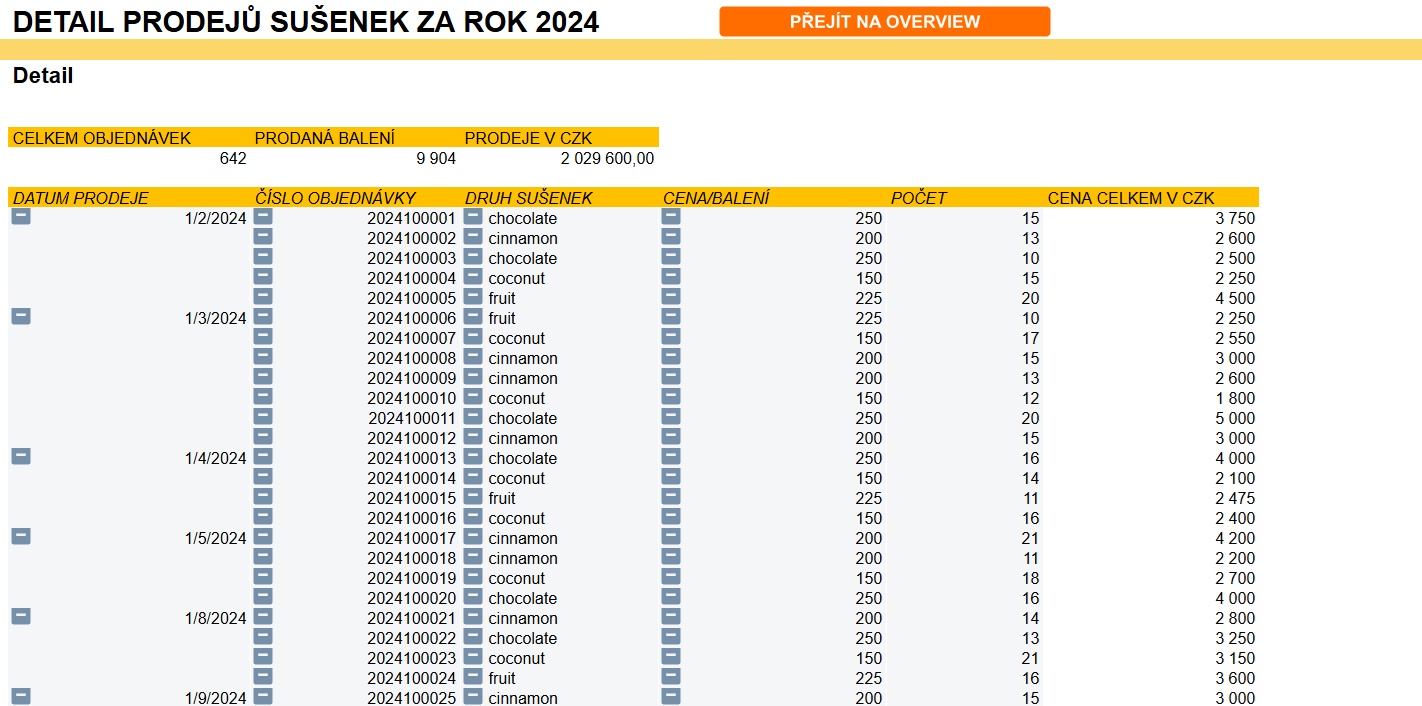
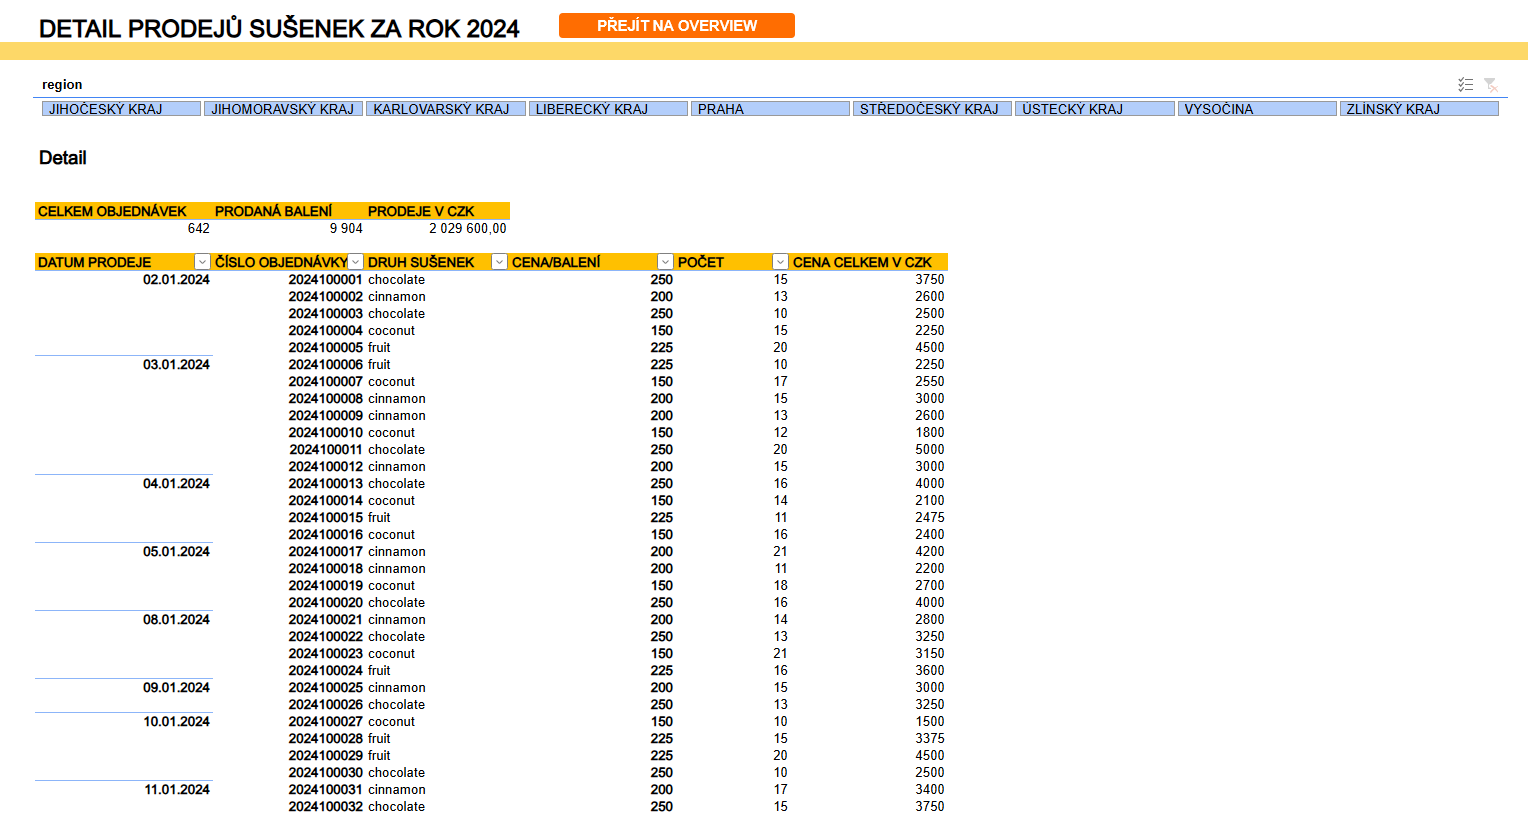
Add images for report

diff --git a/README.md b/README.md
@@ -2,6 +2,11 @@
 ## Cíl projektu:
 Zpracovat a analyzovat prodeje společnosti Cookie Company za rok 2024. Surová data obsahují informace o jednotlivých objednávkách včetně typu produktu, množství, ceny, data a regionu. Data byla zpracována a přehledně rozdělena na úvodní souhrnný přehled a detailní část, kde lze analyzovat trendy prodeje podle měsíců, regionů a sortimentu. Výstupy slouží k vyhodnocení obchodní výkonnosti a plánování výroby či marketingových aktivit pro další období.
 
+
+## Ukázka reportu
+![Souhrnný přehled](images/report_01.png)
+![Detailní pohled](images/report_02.png)
+
 ## Data: 
 * 643 záznamů
 
